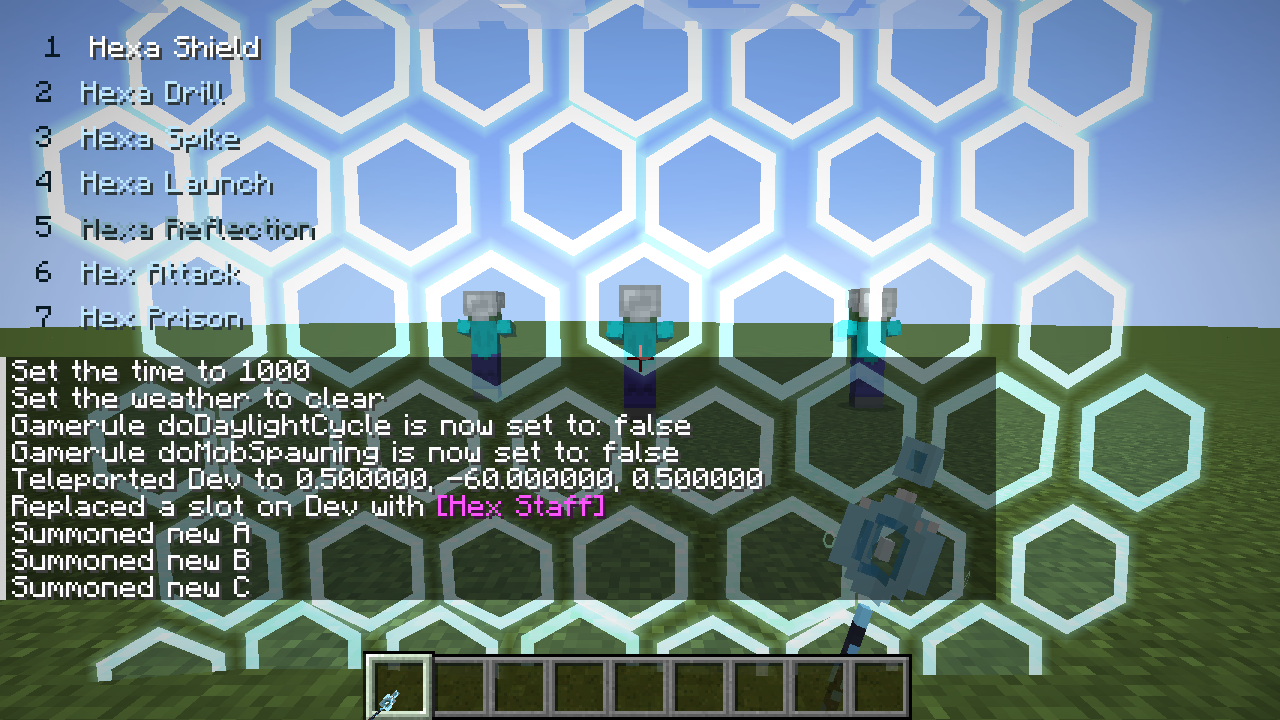
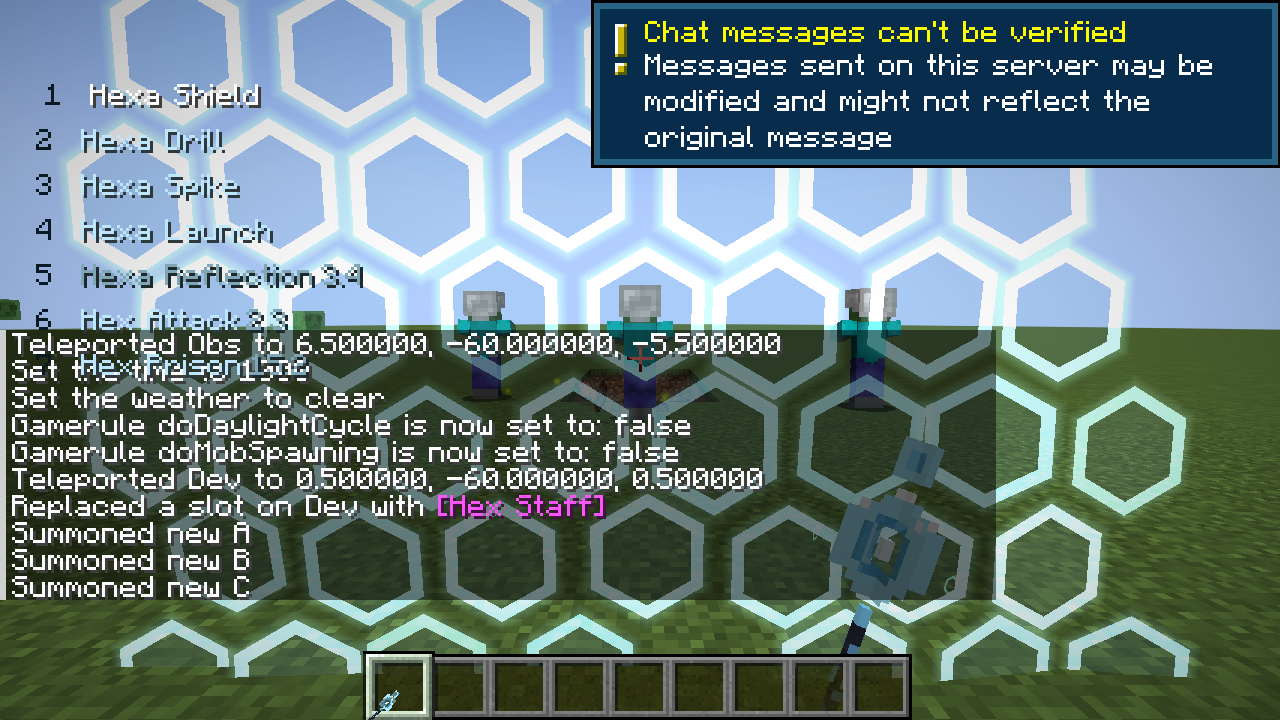
Multiplayer demo: dedicated server run, second-player observer mode
The scripted demo can now join a dedicated server, and a second client
can run as a bystander that photographs the caster. Verified with one
server and two clients: constructs, drills, the swarm, the landing
cushion and the held staff all replicate to the other player.

Claude-Session: https://claude.ai/code/session_016ZKLpdNMCP8Zn8aZGhkHCc

diff --git a/src/gametest/java/com/hexmagic/gametest/HexDemoClient.java b/src/gametest/java/com/hexmagic/gametest/HexDemoClient.java
@@ -36,6 +36,8 @@ public final class HexDemoClient {
     private static final String MODE = System.getProperty("hexmagic.demo", "");
     private static final boolean ENABLED = !MODE.isEmpty() && !MODE.equals("false");
     private static final boolean POSE_ONLY = MODE.equals("pose");
+    private static final boolean OBSERVE = MODE.equals("observe");
+    private static int seen = -1;
     private static boolean started;
     private static int waitTicks;
     private static final org.slf4j.Logger LOGGER = org.slf4j.LoggerFactory.getLogger("HexDemo");
@@ -110,7 +112,20 @@ public final class HexDemoClient {
 
     static {
         if (POSE_ONLY) poseScript();
-        else fullScript();
+        else if (!OBSERVE) fullScript();
+    }
+
+    /** Second player: stands aside, keeps looking at "Dev" and photographs what a bystander sees. */
+    private static void observeTick(Minecraft mc) {
+        Entity dev = null;
+        for (var p : mc.level.players()) if (p != mc.player && p.getGameProfile().getName().equals("Dev")) dev = p;
+        if (dev == null) return;
+        seen++;
+        Vec3 d = dev.getBoundingBox().getCenter().add(0, 0.8, 0).subtract(mc.player.getEyePosition());
+        look((float) (Math.atan2(-d.x, d.z) * 180 / Math.PI), (float) (-Math.atan2(d.y, Math.sqrt(d.x * d.x + d.z * d.z)) * 180 / Math.PI));
+        int[] shots = {8, 11, 14, 30, 50, 64, 100, 120, 140, 196, 204, 240, 256, 300, 372, 390, 535, 570, 660, 692, 730};
+        for (int t : shots) if (t == seen) shot("obs_" + String.format("%03d", t));
+        if (seen == 770) mc.stop();
     }
 
     private static void poseScript() {
@@ -144,6 +159,11 @@ public final class HexDemoClient {
 
     private static void fullScript() {
         at(1, () -> {
+            cmd("gamemode creative");
+            if (Boolean.getBoolean("hexmagic.demo.mp")) {
+                cmd("gamemode creative Obs");
+                cmd("tp Obs 6.5 -60 -5.5");
+            }
             cmd("time set 1000");
             cmd("weather clear");
             cmd("gamerule doDaylightCycle false");
@@ -249,6 +269,7 @@ public final class HexDemoClient {
         Minecraft mc = Minecraft.getInstance();
         if (mc.level == null) {
             if (++waitTicks % 100 == 0) LOGGER.info("[HexDemo] waiting, screen={} overlay={}", mc.screen == null ? null : mc.screen.getClass().getSimpleName(), mc.getOverlay());
+            if (Boolean.getBoolean("hexmagic.demo.mp")) return; // quick play connects by itself
             if (!started && mc.screen != null && !(mc.screen instanceof TitleScreen) && waitTicks > 20) {
                 // First launch shows the accessibility onboarding; skip straight to the title screen.
                 mc.options.onboardAccessibility = false;
@@ -268,6 +289,10 @@ public final class HexDemoClient {
             return;
         }
         if (mc.player == null || mc.screen != null) return;
+        if (OBSERVE) {
+            observeTick(mc);
+            return;
+        }
         t++;
         if (t % 50 == 0) LOGGER.info("[HexDemo] tick {}", t);
         for (Step s : STEPS) if (s.tick == t) s.action.run();

diff --git a/README.md b/README.md
@@ -45,6 +45,18 @@ cooldown reduction and mana regen bonuses).
 ./gradlew runClient -PhexDemo=full   # scripted showcase that screenshots every ability
 ```
 
+Multiplayer check (dedicated server plus two local clients; needs `run-server/eula.txt`, offline mode and
+"Dev" as operator):
+
+```
+./gradlew runServer
+./gradlew runClient -PhexDemo=observe -PhexUser=Obs -PhexServer=localhost:25565   # bystander
+./gradlew runClient -PhexDemo=full -PhexServer=localhost:25565                     # caster
+```
+
+Client presentation options (screen shake strength, HUD on/off and position) are in
+`config/hexmagic-client.toml`.
+
 Balance values live in `config/hexmagic-server.toml`; everything the design fixed is the default, values
 marked PROVISIONAL are open for tuning. A local `libs/irons_spellbooks-*.jar` is used for compilation when
 present; otherwise it is fetched from Iron's maven.
